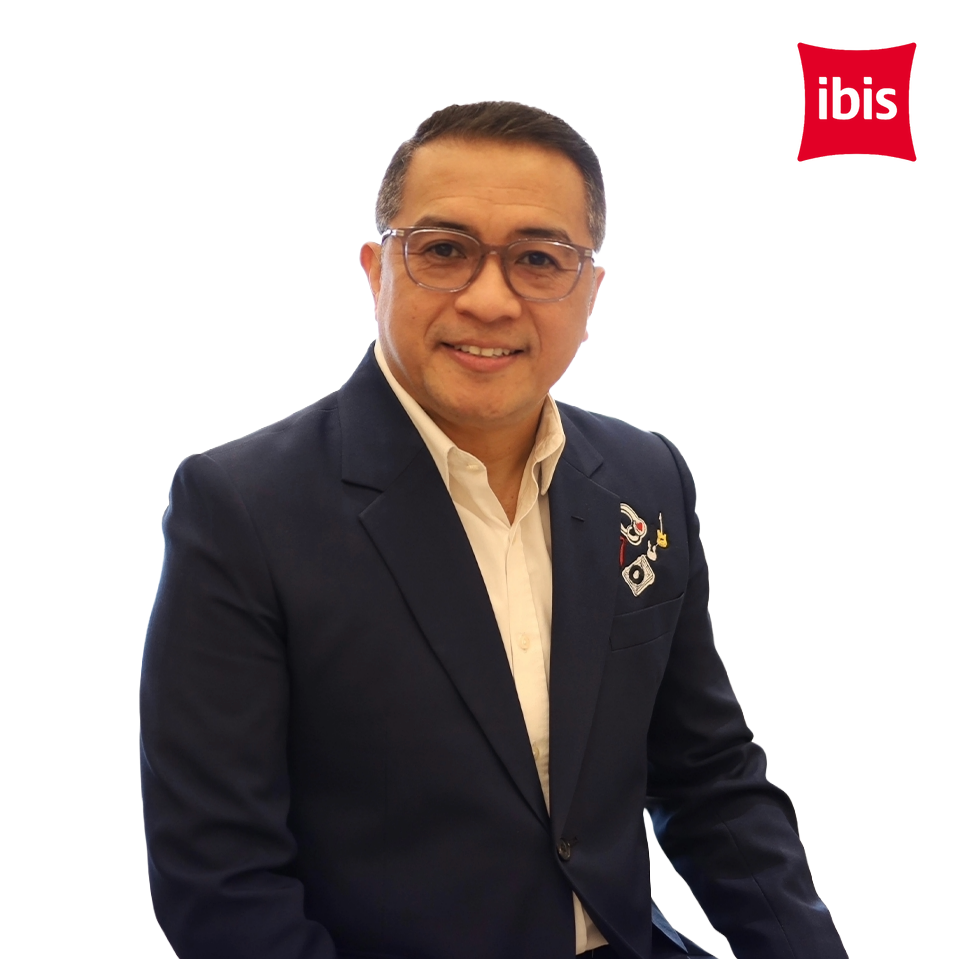
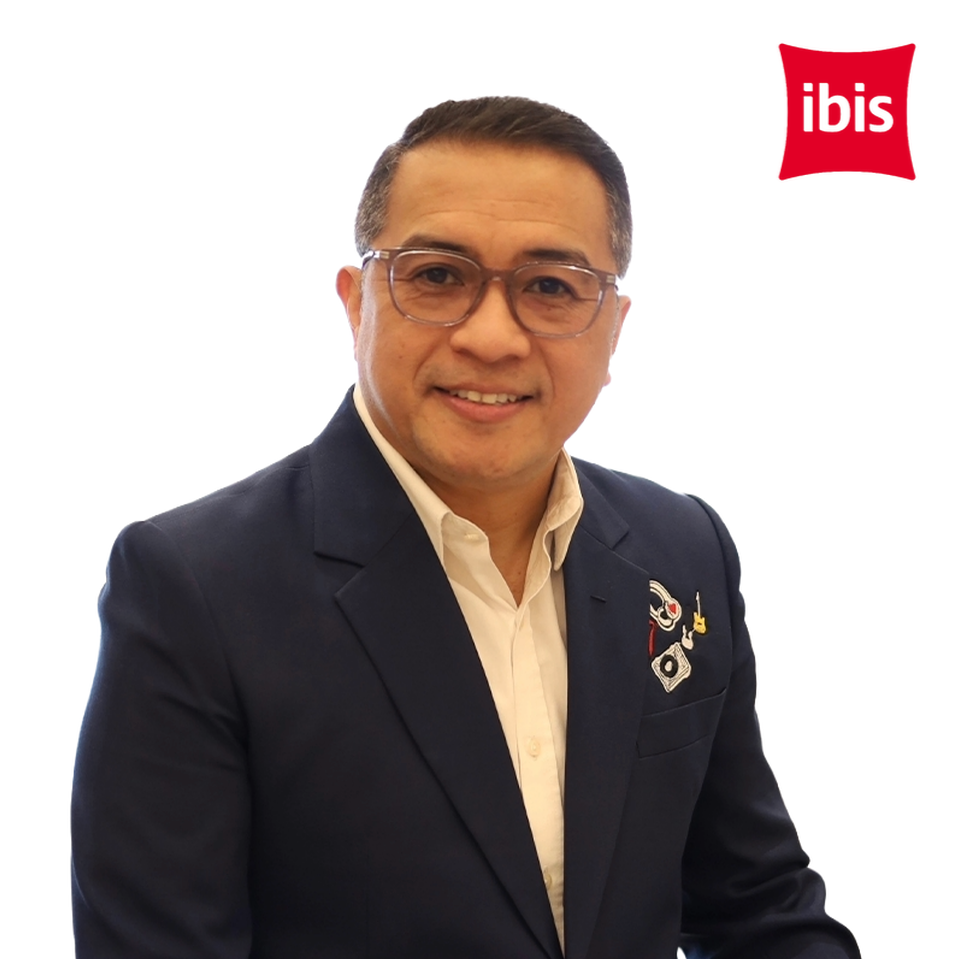
add item on congratulations wall

diff --git a/src/components/Testimonial.js b/src/components/Testimonial.js
@@ -16,7 +16,39 @@ const testimonialKeys = [
   {
     key: 'item3',
     image: '/images/home-congrats-dunamis.png',
-  }
+  },
+  {
+    key: 'item4',
+    image: '/images/home-congrats-kimsooil.png',
+  },
+  {
+    key: 'item5',
+    image: '/images/home-congrats-lucia.png',
+  },
+  {
+    key: 'item6',
+    image: '/images/home-congrats-ibnu.png',
+  },
+  {
+    key: 'item7',
+    image: '/images/home-congrats-saringin.png',
+  },
+  {
+    key: 'item8',
+    image: '/images/home-congrats-reza.png',
+  },
+  {
+    key: 'item9',
+    image: '/images/home-congrats-rudy.png',
+  },
+  {
+    key: 'item10',
+    image: '/images/home-congrats-linan.png',
+  },
+  {
+    key: 'item11',
+    image: '/images/home-congrats-erik.png',
+  },
 ];
 
 export default function Testimonial() {
